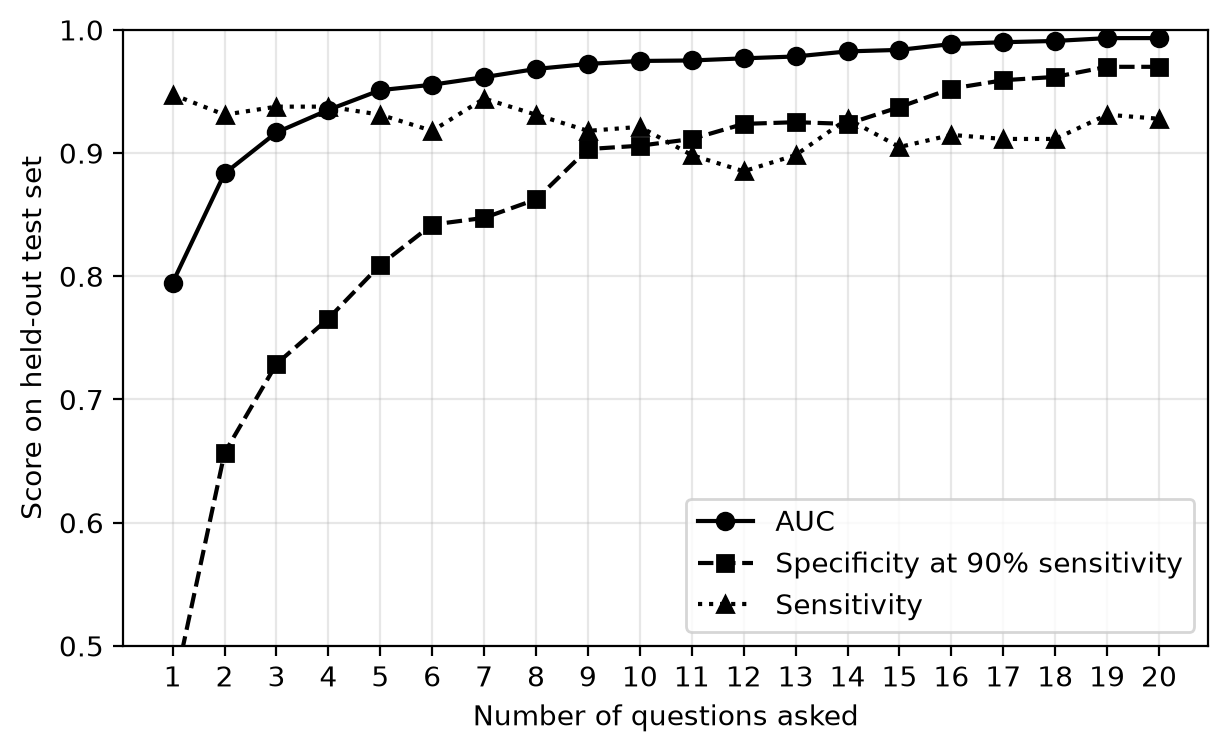
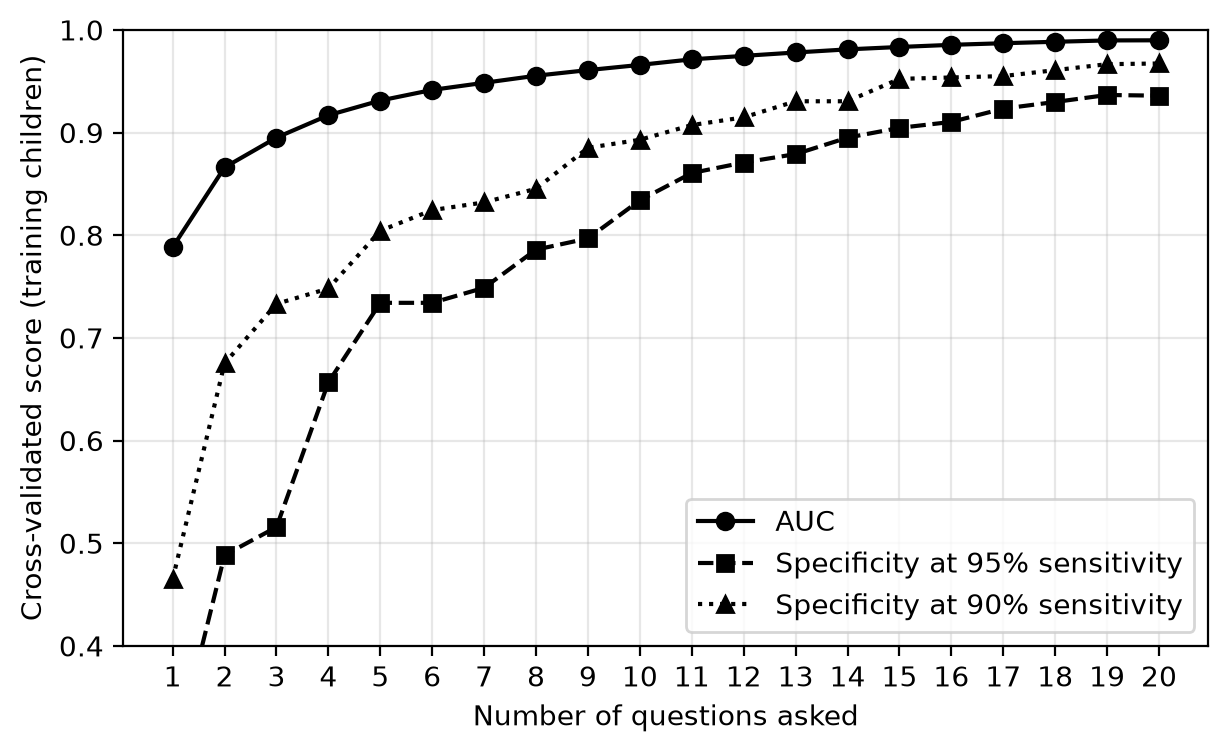
feat: item reduction curve from training CV

diff --git a/ml/src/hatua_ml/features/item_reduction.py b/ml/src/hatua_ml/features/item_reduction.py
@@ -1,0 +1,132 @@
+"""Item reduction (#27): how few ECDI2030 questions keep the classification.
+
+Everything here uses Kenya TRAINING children only (complete cases), with 5-fold
+cross-validation. The held-out test children are touched only by the final models.
+
+Run:  python -m hatua_ml.features.item_reduction             (order + curve + figure)
+      python -m hatua_ml.features.item_reduction --stability (adds 50 resamples, ~11 min)
+"""
+import sys
+from collections import Counter
+
+import numpy as np
+import pandas as pd
+from sklearn.linear_model import LogisticRegression
+from sklearn.metrics import roc_auc_score
+from sklearn.model_selection import StratifiedKFold, cross_val_predict, cross_val_score
+from sklearn.pipeline import make_pipeline
+from sklearn.preprocessing import StandardScaler
+
+from hatua_ml.config import ROOT
+from hatua_ml.features.ecdi2030 import ITEMS
+from hatua_ml.models.split import SEED
+
+SENSITIVITIES = (0.90, 0.95)
+N_BOOT = 50
+REPORTS = ROOT / "ml" / "reports"
+
+
+def cv():
+    return StratifiedKFold(n_splits=5, shuffle=True, random_state=SEED)
+
+
+def selector():
+    """Simple, fast model used only to rank questions."""
+    return make_pipeline(StandardScaler(), LogisticRegression(max_iter=1000))
+
+
+def training_data(train_df: pd.DataFrame) -> tuple[pd.DataFrame, np.ndarray]:
+    """Complete-case items + age, and the risk target (1 = off track)."""
+    complete = train_df.dropna(subset=ITEMS).reset_index(drop=True)
+    X = complete[ITEMS + ["age_months"]].astype(float)
+    y = (1 - complete["on_track"]).astype(int).to_numpy()
+    return X, y
+
+
+def forward_select(X: pd.DataFrame, y, k_max: int = len(ITEMS)) -> list[str]:
+    """Add one question at a time, each time the one that most raises CV AUC.
+    Age is always included."""
+    selected, remaining = [], list(ITEMS)
+    while remaining and len(selected) < k_max:
+        scores = {item: cross_val_score(selector(), X[selected + [item, "age_months"]], y,
+                                        cv=cv(), scoring="roc_auc").mean()
+                  for item in remaining}
+        best = max(scores, key=scores.get)
+        selected.append(best)
+        remaining.remove(best)
+    return selected
+
+
+def operating_curve(X: pd.DataFrame, y, order: list[str]) -> pd.DataFrame:
+    """For each number of questions k: out-of-fold AUC, and specificity at each target
+    sensitivity, plus missed and wrongly flagged children per 100 screened."""
+    y = np.asarray(y)
+    off = y.mean()
+    rows = []
+    for k in range(1, len(order) + 1):
+        cols = order[:k] + ["age_months"]
+        p = cross_val_predict(selector(), X[cols], y, cv=cv(), method="predict_proba")[:, 1]
+        row = {"k": k, "added": order[k - 1], "auc": roc_auc_score(y, p)}
+        for sens in SENSITIVITIES:
+            t = np.quantile(p[y == 1], 1 - sens)
+            caught, spec = (p[y == 1] >= t).mean(), (p[y == 0] < t).mean()
+            tag = int(round(sens * 100))
+            row[f"specificity_{tag}"] = spec
+            row[f"missed_per_100_{tag}"] = 100 * off * (1 - caught)
+            row[f"false_flags_per_100_{tag}"] = 100 * (1 - off) * (1 - spec)
+        rows.append(row)
+    return pd.DataFrame(rows)
+
+
+def stability(X: pd.DataFrame, y, k: int, n_boot: int = N_BOOT) -> pd.Series:
+    """Share of bootstrap resamples of the training children in which each question
+    lands in the first k selected."""
+    rng = np.random.default_rng(SEED)
+    y = np.asarray(y)
+    counts = Counter()
+    for _ in range(n_boot):
+        idx = rng.integers(0, len(X), len(X))
+        counts.update(forward_select(X.iloc[idx].reset_index(drop=True), y[idx], k))
+    return pd.Series({item: counts[item] / n_boot for item in ITEMS}).sort_values(ascending=False)
+
+
+def plot_curve(curve: pd.DataFrame, path) -> None:
+    import matplotlib.pyplot as plt
+
+    fig, ax = plt.subplots(figsize=(7, 4))
+    ax.plot(curve.k, curve.auc, "k-o", label="AUC")
+    ax.plot(curve.k, curve.specificity_95, "k--s", label="Specificity at 95% sensitivity")
+    ax.plot(curve.k, curve.specificity_90, "k:^", label="Specificity at 90% sensitivity")
+    ax.set_xlabel("Number of questions asked")
+    ax.set_ylabel("Cross-validated score (training children)")
+    ax.set_xticks(range(1, len(curve) + 1))
+    ax.set_ylim(0.4, 1.0)
+    ax.grid(alpha=0.3)
+    ax.legend()
+    fig.savefig(path, dpi=200, bbox_inches="tight")
+    plt.close(fig)
+
+
+def main(with_stability: bool = False) -> None:
+    from hatua_ml.models.split import kenya_split, load_feature_table
+
+    train_df, _ = kenya_split(load_feature_table())
+    X, y = training_data(train_df)
+    order = forward_select(X, y)
+    curve = operating_curve(X, y, order)
+    (REPORTS / "figures").mkdir(parents=True, exist_ok=True)
+    curve.to_csv(REPORTS / "item_reduction_curve.csv", index=False)
+    plot_curve(curve, REPORTS / "figures" / "item_reduction_curve.png")
+    print("order:", order)
+    print(curve.round(3).to_string(index=False))
+
+    if with_stability:
+        from hatua_ml.features.item_sets import SHORT_FORM_13
+
+        freq = stability(X, y, k=len(SHORT_FORM_13))
+        freq.rename("share_of_resamples").to_csv(REPORTS / "item_reduction_stability.csv")
+        print(freq.round(2).to_string())
+
+
+if __name__ == "__main__":
+    main(with_stability="--stability" in sys.argv)
